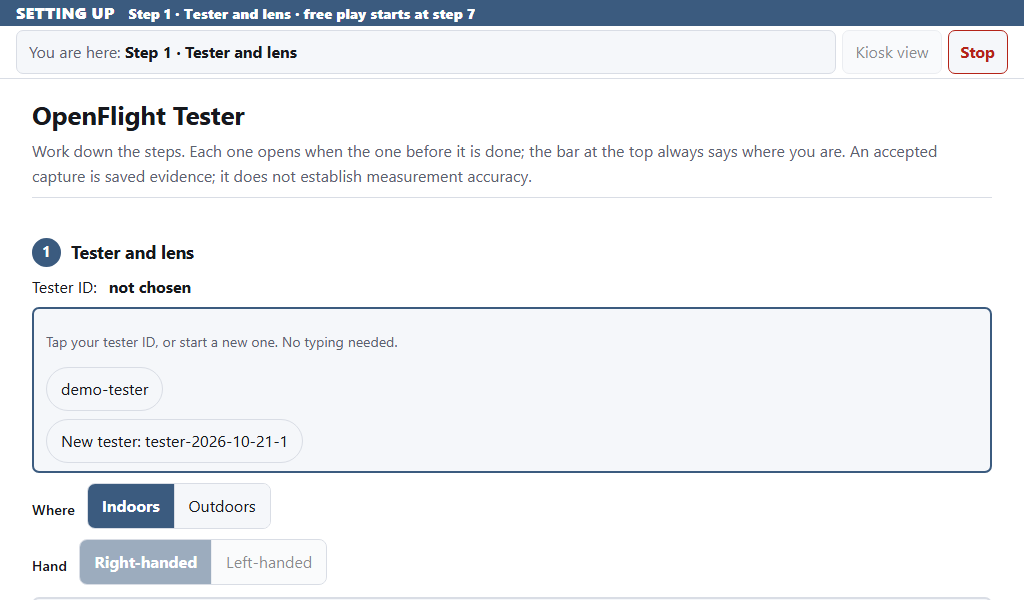
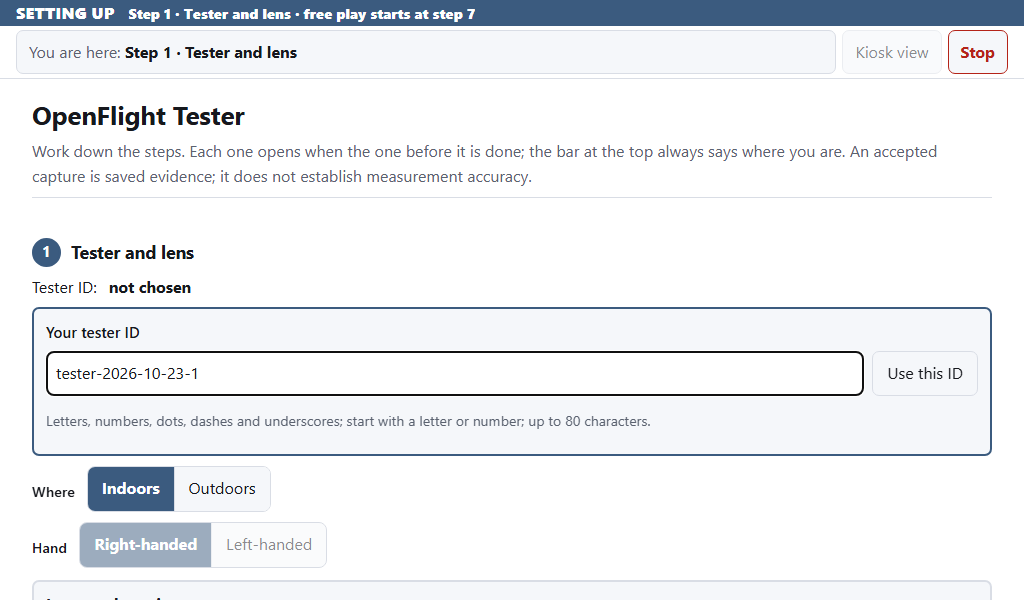
Docs: step 1 asks testers to type their tester ID
The tester guide and the pilot reference describe the text box, the API table
drops GET /api/tester/testers, and the step-1 guide picture is retaken with a
neutral example ID (tester-2026-10-23-1) from the real tester server at
1024x600, as the other guide pictures were.

Changed region(s): [[0.0312, 0.69, 0.9688, 1.0], [0.0312, 0.54, 0.8438, 0.66], [0.8438, 0.6, 0.9375, 0.63]]

diff --git a/docs/camera/tester-pilot.md b/docs/camera/tester-pilot.md
@@ -325,9 +325,13 @@ that step. The same bar holds **Kiosk view** and **Stop**. **Advanced: manual
 single-arm tools** is for a maintainer-directed investigation of one mode; it is
 not the normal pilot and does not replace the ladder.
 
-**Step 1: tester ID and lens, by touch.** Nothing in setup is typed. Tap your
-tester ID in the list, or **New tester** to start one with the suggested ID; the
-page remembers it on this browser. Tap **Indoors** or **Outdoors**. Then tap the
+**Step 1: tester ID and lens.** Type your tester ID in the box and tap **Use this
+ID** (or press Enter). The page accepts the same characters the server does
+(letters, numbers, dots, dashes and underscores, starting with a letter or number,
+up to 80) and says so plainly when an ID can't be used. It never lists the IDs
+saved on the unit, so no tester sees another's; typing an ID that already has data
+resumes it. The ID is kept for this browser tab only: a reload keeps it, a new
+visit starts empty. Tap **Indoors** or **Outdoors**. Then tap the
 lens fitted to the unit (stock 2.8 mm, 6 mm or 8 mm): the page shows its
 aperture, field of view and whether its camera model is calibrated, and its
 settings: the modes it runs, the default mode, and the exposure-ladder settings.
@@ -369,7 +373,7 @@ the camera from the ball range.
 
 ## Test suite
 
-On the study page, pick your tester ID and lens (step 1), check the unit
+On the study page, enter your tester ID and pick the lens (step 1), check the unit
 (step 2: **Check the unit**, the tilt check, then confirm), put the ball in the box
 (step 3) and set or skip the aim point (step 4), then:
 

diff --git a/docs/tester-guide/README.md b/docs/tester-guide/README.md
@@ -32,9 +32,9 @@ Leave the terminal open; **Ctrl+C** in it stops everything. Then open the tester
 
 Work down the page. Each step opens when the one before it is done, and the bar at the top says where you are.
 
-**1. Tester and lens.** Tap your tester ID, or **New tester**. Tap **Indoors** or **Outdoors**, **Right-handed** or **Left-handed**, then the lens fitted to the unit (**Stock 2.8 mm** unless you've changed it).
+**1. Tester and lens.** Type your tester ID in the box and tap **Use this ID** (or press Enter). Use the same ID every time you test, so your sessions stay together; it can have letters, numbers, dots, dashes and underscores. Tap **Indoors** or **Outdoors**, **Right-handed** or **Left-handed**, then the lens fitted to the unit (**Stock 2.8 mm** unless you've changed it).
 
-<img src="images/1-tester.png" width="480" alt="Step 1: tap your tester ID or New tester, Indoors or Outdoors, and Right-handed or Left-handed"> <img src="images/1-lens.png" width="480" alt="Step 1: the stock 2.8 mm lens tapped">
+<img src="images/1-tester.png" width="480" alt="Step 1: a tester ID typed in the box, Indoors or Outdoors, and Right-handed or Left-handed"> <img src="images/1-lens.png" width="480" alt="Step 1: the stock 2.8 mm lens tapped">
 
 **2. Check the unit.** Three short checks, top to bottom.
 

diff --git a/docs/camera/tester-fixed-box.md b/docs/camera/tester-fixed-box.md
@@ -212,7 +212,6 @@ covers the tester page; the page's "Kiosk view" button opens the kiosk UI at
 | `GET /api/tester/placement-box` (`?arm_id=`) | the box (`mode`, `box_outline_px`, `frame_size_px`, `placement_window_m`), `ball`, `net_line`, `distance_note`, the lens |
 | `POST /api/tester/placement-box` | `show`, `confirm` (no coordinates), `set_net_line {row_px}` |
 | `GET\|POST /api/tester/lens` | the lenses, the selection, each lens's settings, `allowed_ladder_us`; `select`, `settings`, `reset_tilt` |
-| `GET /api/tester/testers` | `testers`, `suggested_new` |
 | `GET /api/tester/status` | adds `lens_id`, `kiosk`, `ball_at_address`, `live_metrics` |
 | `GET\|POST /api/tester/aim-point` | `display_scale`, `skip`, `total_uncertainty_deg`; during free play `preview_source: kiosk` and `free_play {applied, error}` |
 | `GET\|POST /api/tester/handedness` | the tester's `handed` (`RH` or `LH`) and its `source` |
